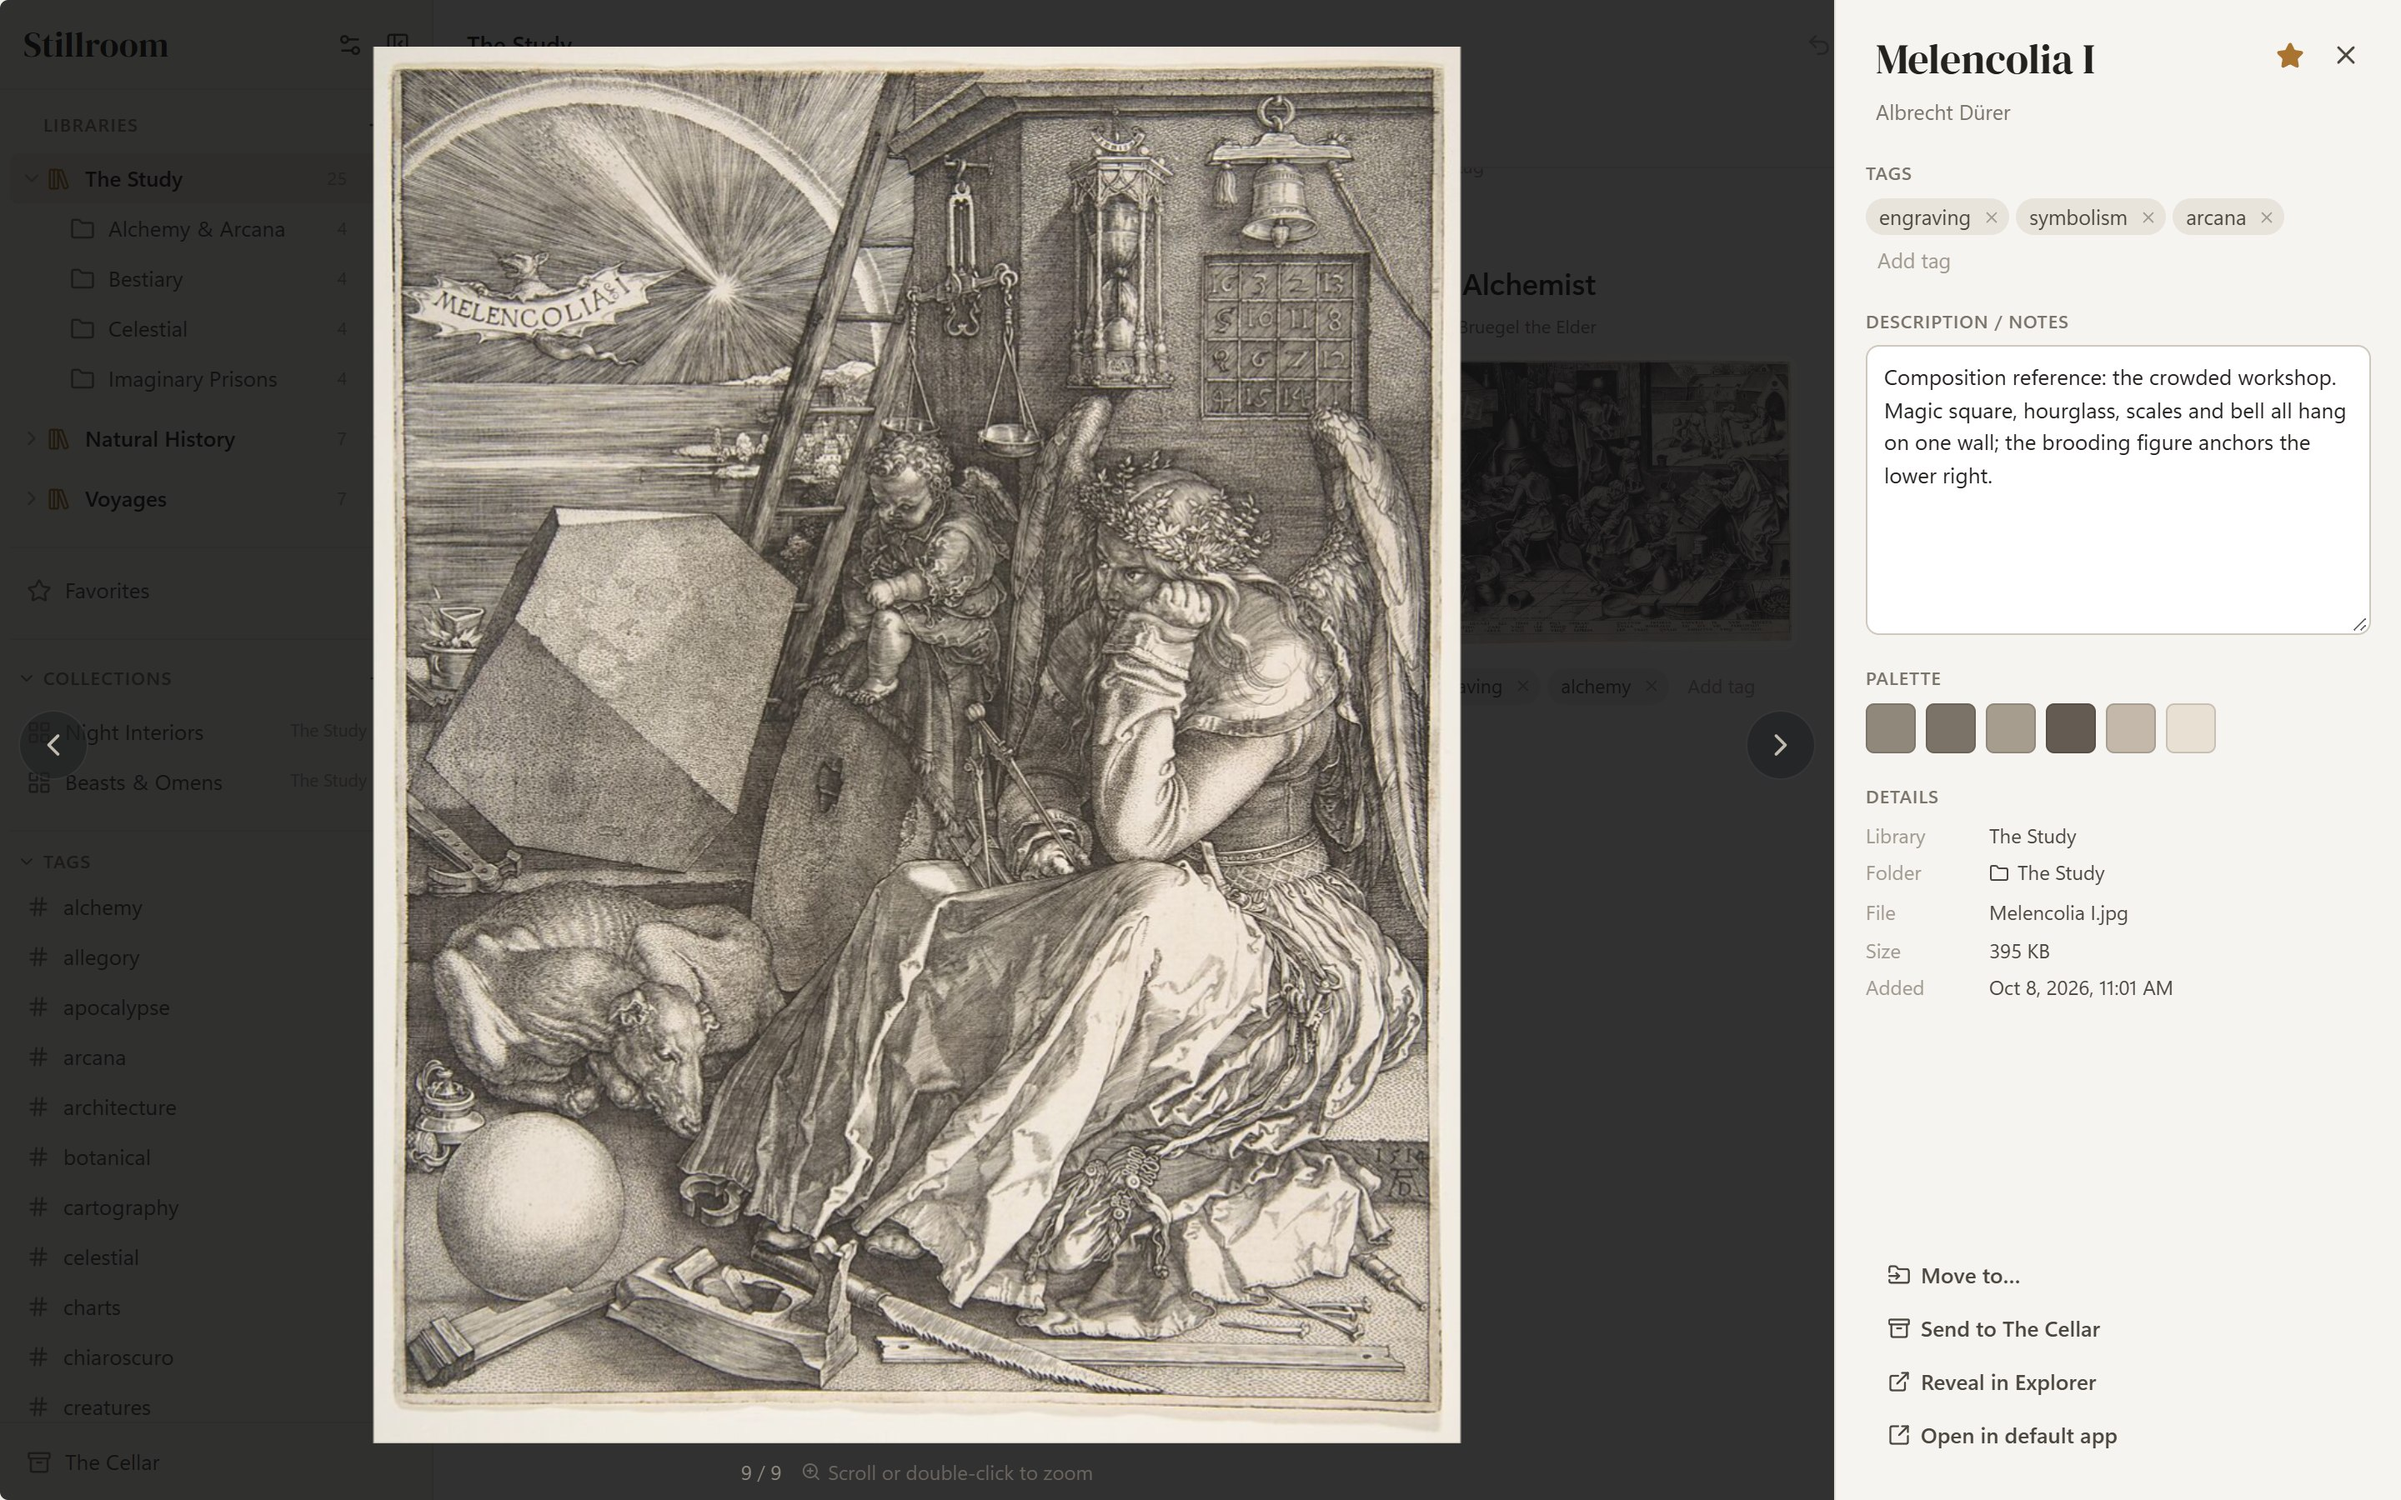
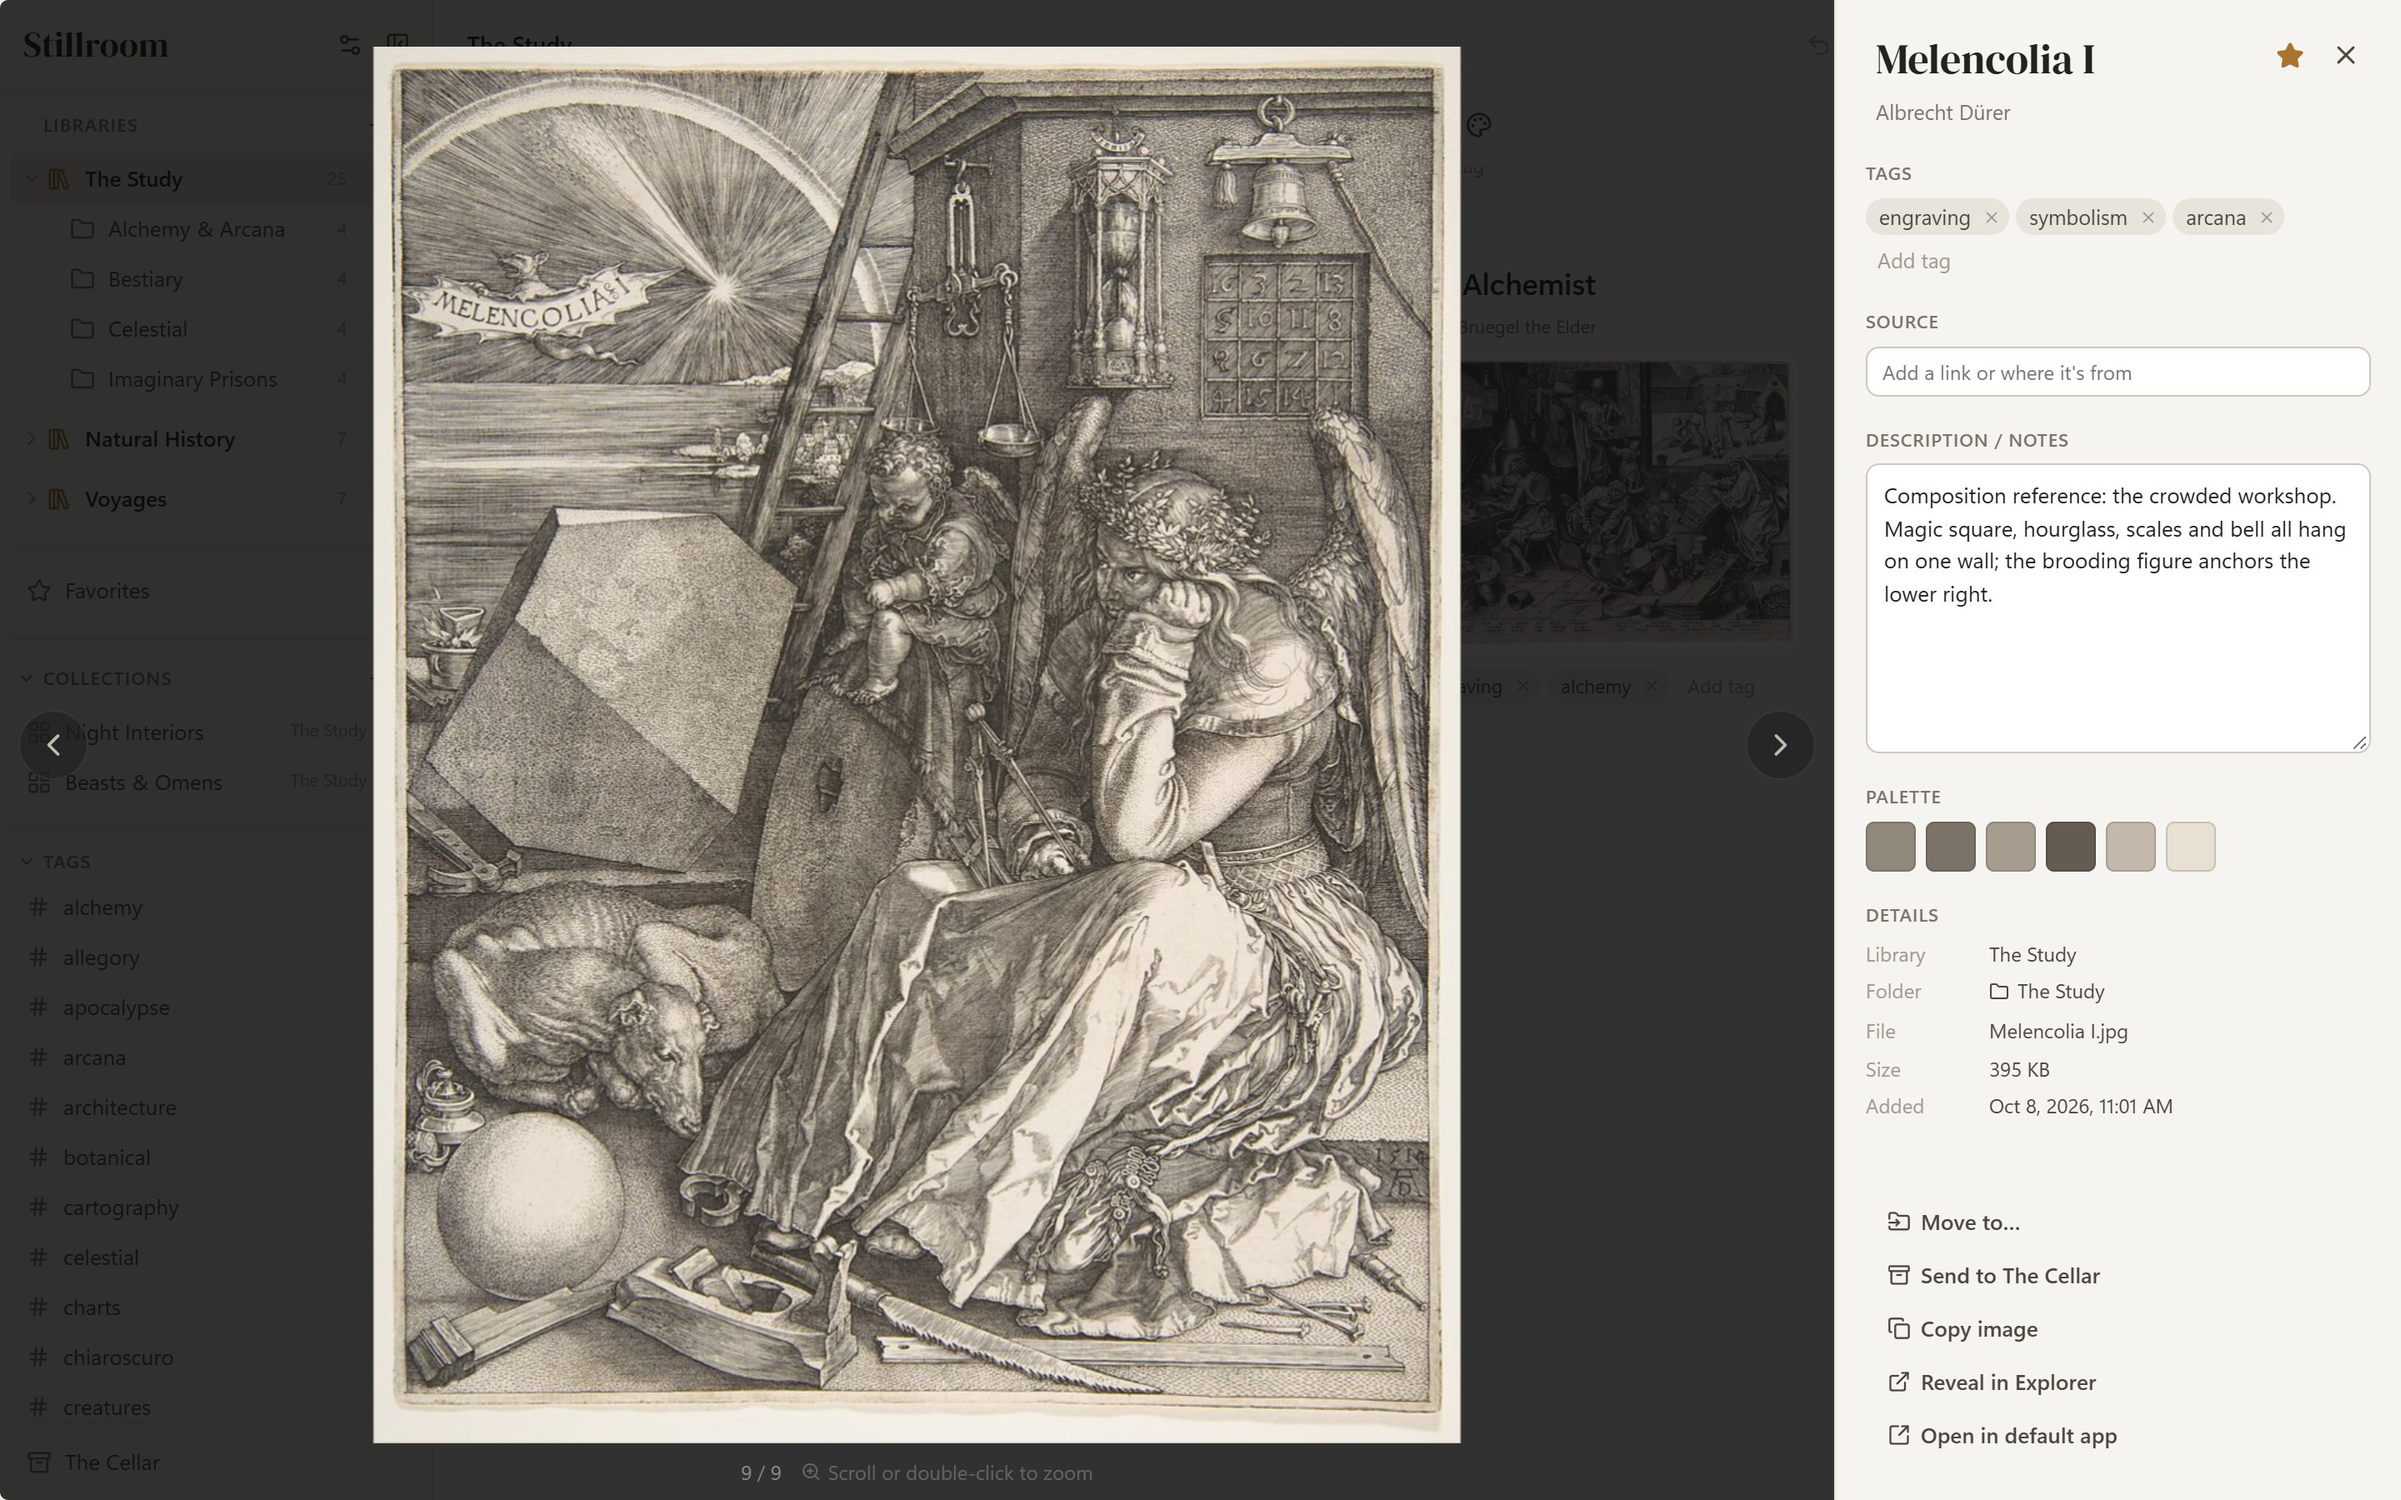
0.5.0: README and changelog for copy image, quick look, sources and colour search; new screenshots

diff --git a/README.md b/README.md
@@ -13,8 +13,9 @@
 
 ![The Lightbox: four reference images floating over Krita while an etching is open on the canvas. One reference is faded so the canvas shows through it](assets/stillroom-lightbox-krita.jpg)
 
-> **New in 0.4.0: the Lightbox.** Gather references in a tray, then float them above
-> any app while you work. See the [changelog](CHANGELOG.md) for everything new.
+> **New in 0.5.0:** copy images straight into other apps, Spacebar quick look, a Source
+> link for every image, and search by colour. Since 0.4.0: the **Lightbox**, which floats your
+> references above any app. See the [changelog](CHANGELOG.md) for everything.
 
 ---
 
@@ -34,7 +35,7 @@ upload anything, and works offline.
 
 ## Features
 
-**The Lightbox** (new in 0.4.0)
+**The Lightbox**
 - A tray on the right edge of the window. Drag images in from any board, or right-click → **Add to Lightbox**.
 - **Show on screen** floats each image in its own small window above every other app, so it stays in view while you paint, model or design.
 - Drag to move. Drag the corner or scroll to resize, keeping the proportions. Hover for an opacity slider so the work underneath shows through.
@@ -49,23 +50,31 @@ upload anything, and works offline.
 
 **Organize**
 - Tags with suggestions, notes that save as you type, author credits, and favorites.
+- A **Source** for every image: paste the link it came from and open it again with one click.
 - Collections group references from different folders without moving or copying files.
 - Drag items into folders and collections, or drag to arrange them in your own order.
 - Multi-select for bulk tagging and moving, right-click menus, and **Ctrl+Z** to undo.
+- **Copy image** (Ctrl+C) puts the picture on the clipboard, ready to paste into Krita, Photoshop or a chat.
 
 ![A library of engravings and charts: folder tiles, cards with authors and tags, and the sidebar with libraries, collections and tags](assets/stillroom-board.jpg)
 
+![The right-click menu on an image, with Add to Lightbox, Copy image and Open source link](assets/stillroom-right-click.jpg)
+
 **Find**
 - Search titles, authors, notes and tags. Type `#tag` to match tags only.
+- **Search by colour:** pick a colour and see the images whose main colours match.
 - Include subfolders, sort several ways, resize thumbnails.
+
+![Search by colour: "Black" picks out the three darkest prints in the library](assets/stillroom-colour-search.jpg)
 
 ![A tag view showing everything tagged "celestial" across folders](assets/stillroom-tag.jpg)
 
 **View**
 - A full viewer with zoom, pan, arrow-key browsing and each image's colour palette.
+- **Quick look:** press Space on an image to open it, and Space again to close it.
 - Video playback, with first-frame thumbnails.
 
-![The viewer: an engraving on the left, with its tags, notes, colour palette and file details on the right](assets/stillroom-viewer.jpg)
+![The viewer: Dürer's Rhinoceros, with its tags, its source link, colour palette and file details on the right](assets/stillroom-viewer-source.jpg)
 
 **The Cellar**
 - Set media aside instead of deleting it. It leaves boards and search but keeps its tags and notes.

diff --git a/CHANGELOG.md b/CHANGELOG.md
@@ -3,6 +3,24 @@
 All notable changes to Stillroom. Downloads are on the
 [releases page](https://github.com/remiionline/stillroom-release/releases).
 
+# Stillroom 0.5.0 — 2026-10-19
+
+## New
+- Copy image: press Ctrl+C on an image (or use "Copy image" in its menu or the viewer) and paste it straight into Krita, Photoshop, a chat or anywhere else.
+- Quick look: press Space on an image to open it in the viewer, and Space again to close it.
+- Source: each image has a Source field in the viewer for where it came from. Web addresses get a button to open them, and "Open source link" appears in the image's menu.
+- Search by colour: the palette button next to search filters the view to images whose main colours match the one you pick. Choose a preset or any colour.
+- Shift-click a colour in the viewer's palette to find other images with that colour.
+
+## Improved
+- Search also looks in each image's source.
+- Changing an image's source can be undone with Ctrl+Z.
+
+## Known issues
+- The first colour search in a large library takes a while, because Stillroom works out the colours of images you haven't opened yet. Matches appear as it goes, and a note beside the filter shows how many images are left.
+- Colour search goes by an image's main colours, so a small accent (a red flower on a mostly white page) doesn't count as a match.
+- Copy image works for PNG, JPEG, WebP, GIF and BMP images. AVIF, SVG and ICO can't be copied yet.
+
 # Stillroom 0.4.0 — 2026-10-12
 
 ## New
